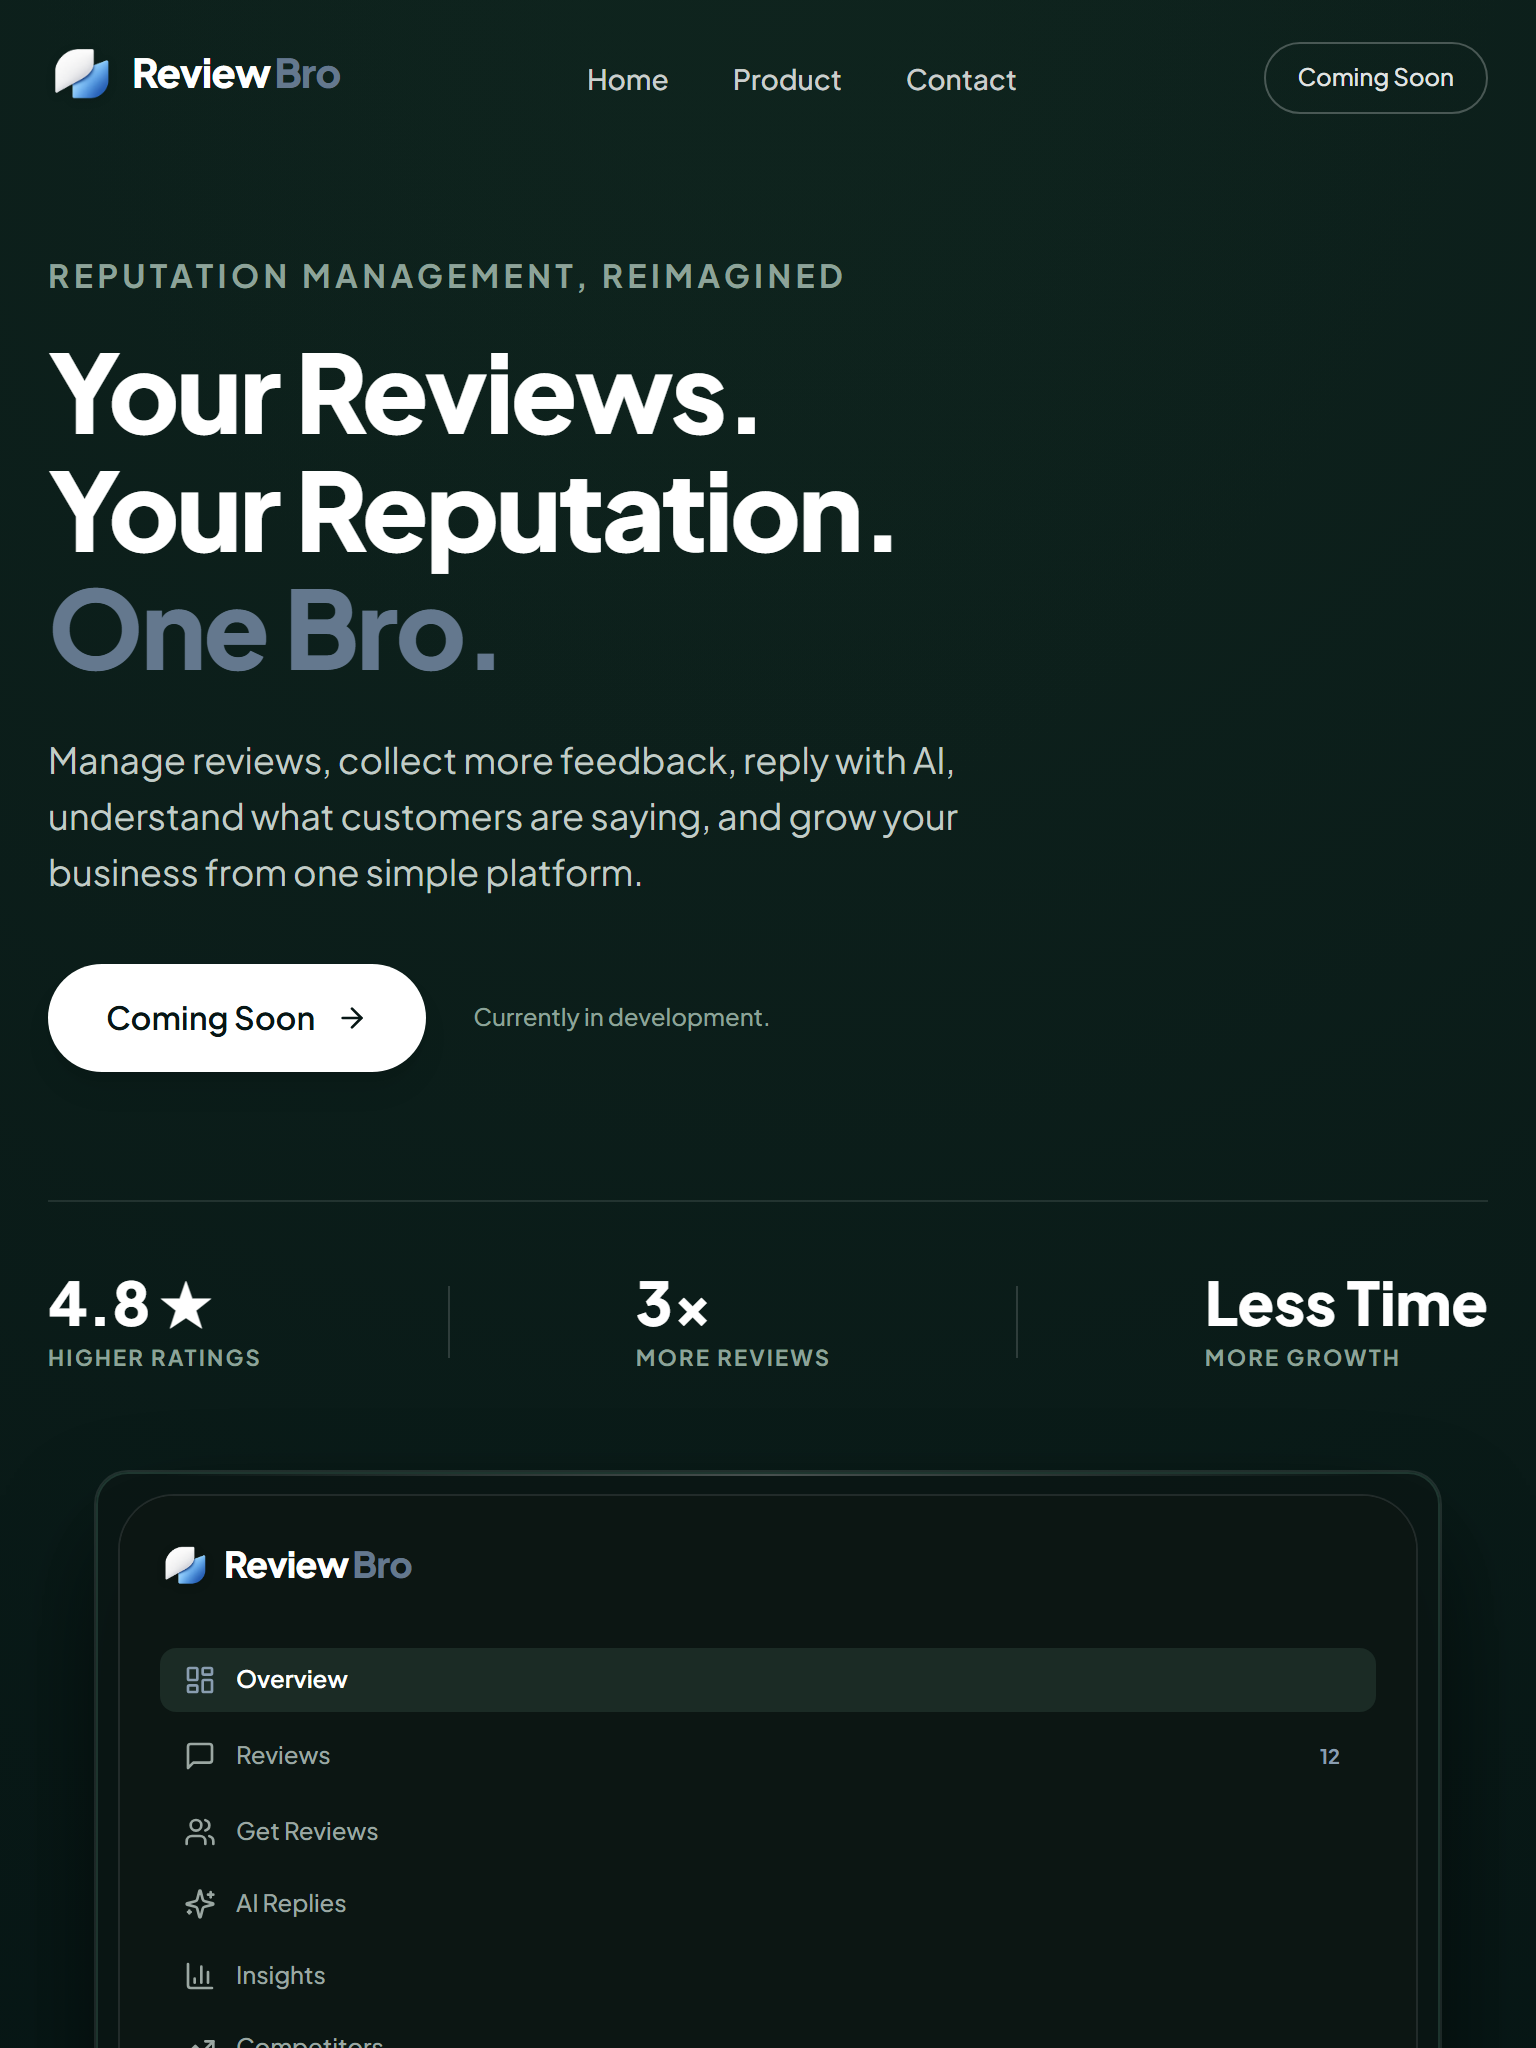
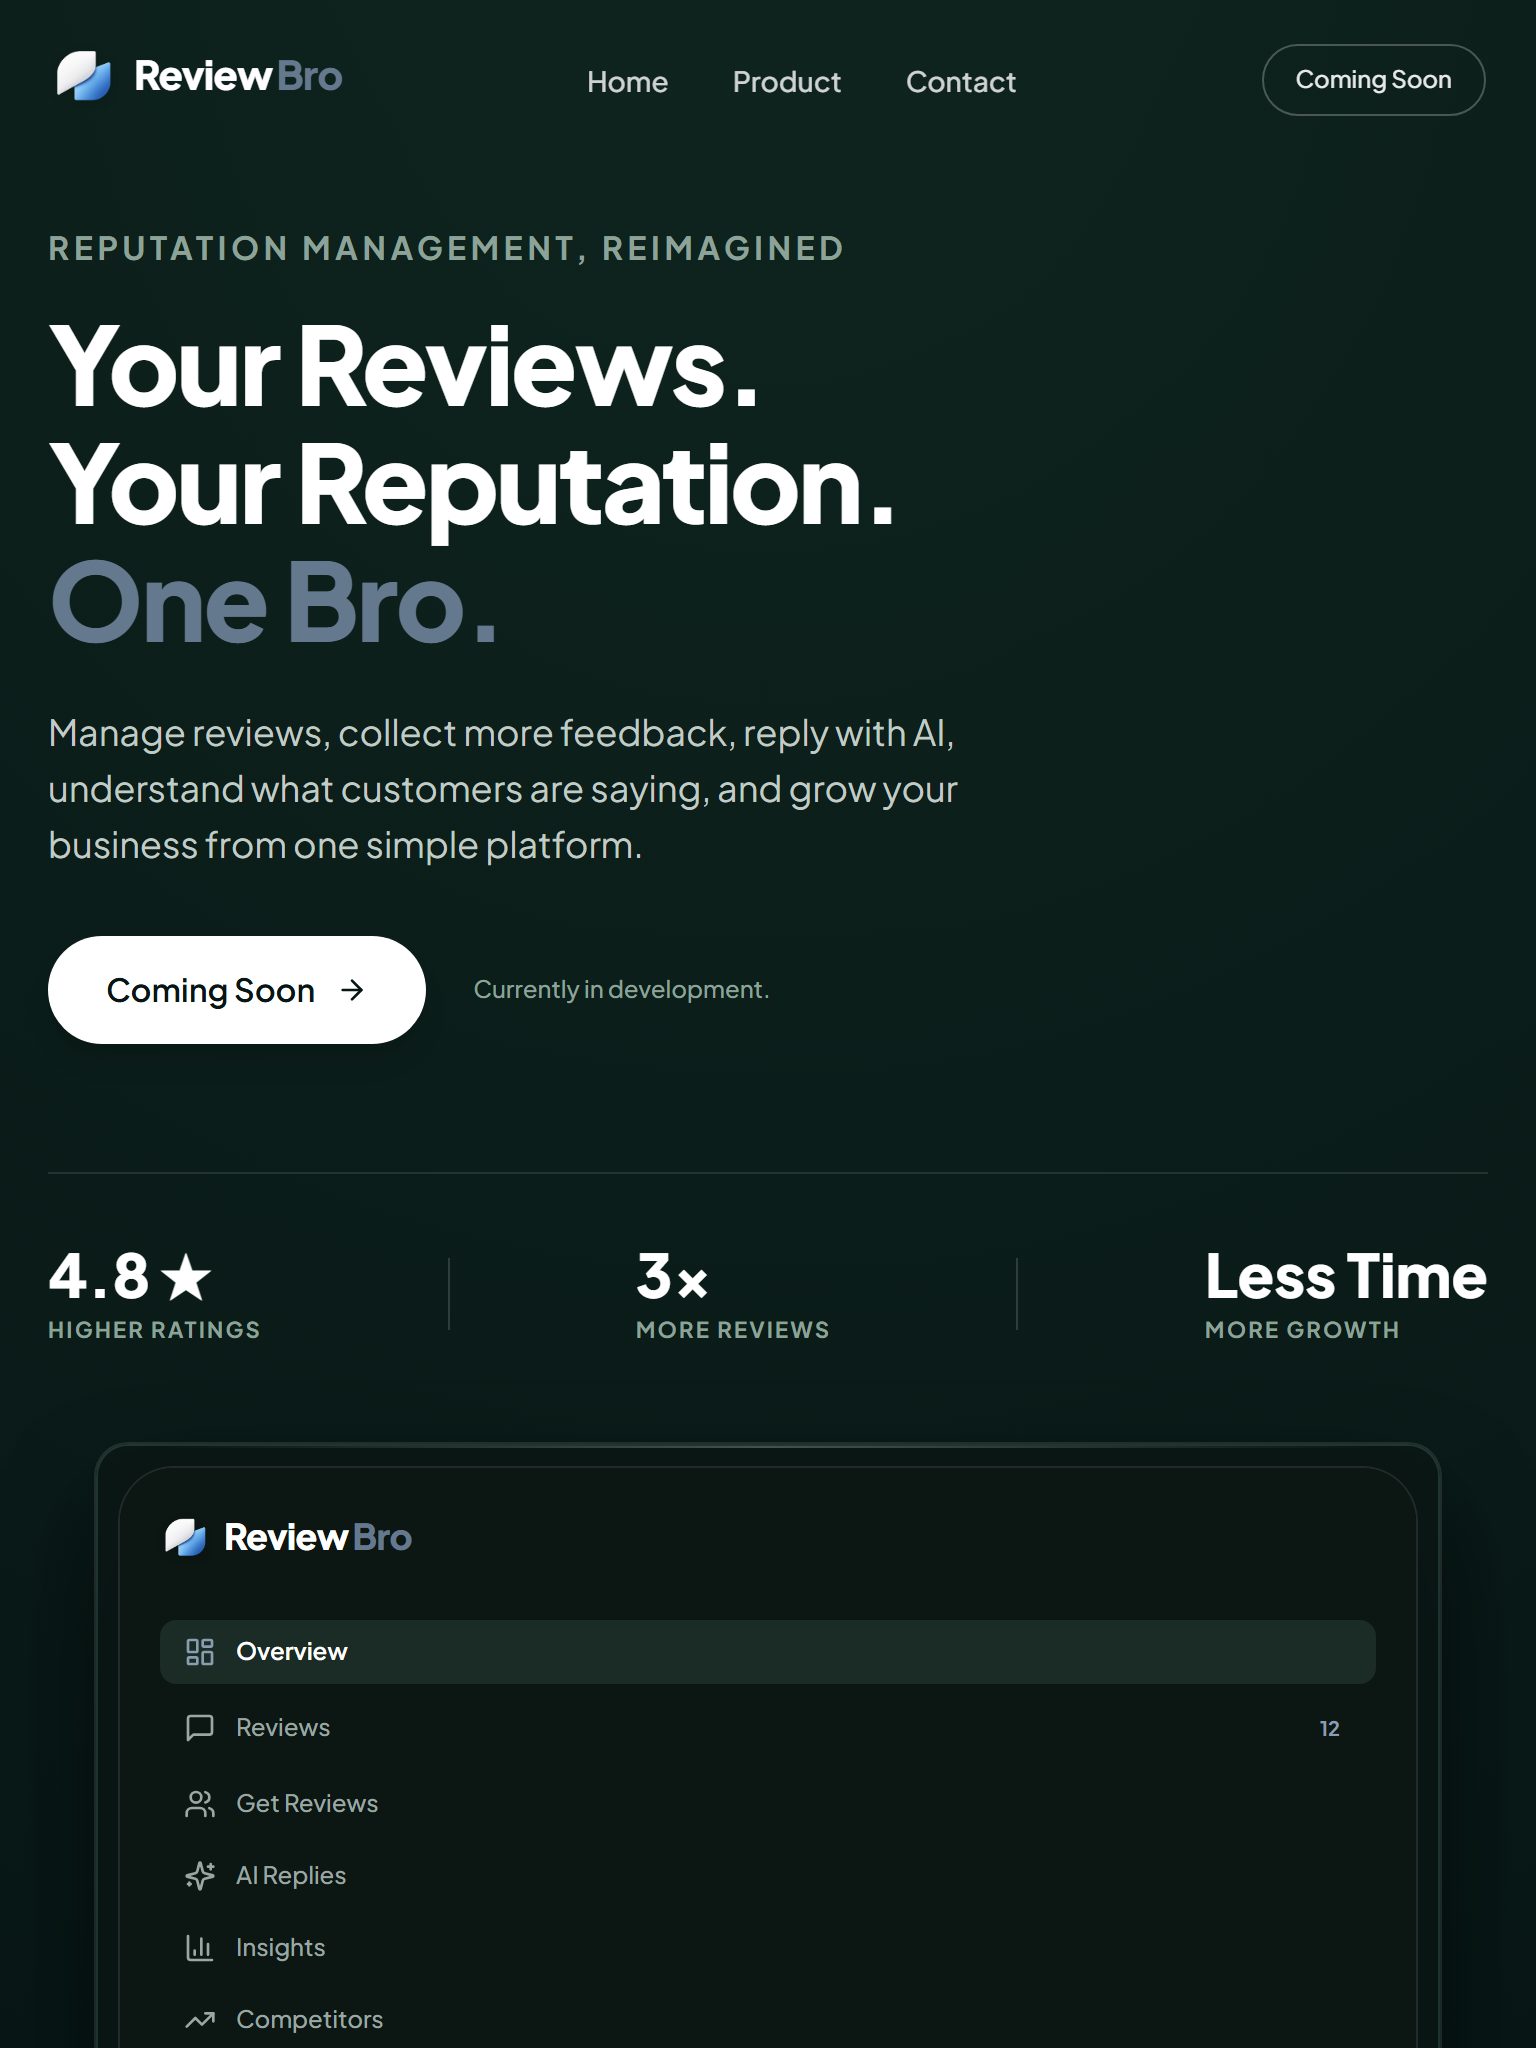
feat: implement Option 2 Adaptive Chameleon fixed floating header with smooth transformation animation

diff --git a/src/components/layout/Navbar.tsx b/src/components/layout/Navbar.tsx
@@ -5,15 +5,17 @@ import { Menu, X } from 'lucide-react'
 import { cn } from '@/lib/utils'
 
 export interface NavbarProps {
-  theme?: 'dark' | 'light'
+  theme?: 'dark' | 'light' | 'adaptive'
   className?: string
 }
 
 export const Navbar: React.FC<NavbarProps> = ({
-  theme = 'dark',
+  theme = 'adaptive',
   className,
 }) => {
   const [mobileMenuOpen, setMobileMenuOpen] = useState(false)
+  const [isScrolled, setIsScrolled] = useState(false)
+  const [isOverLightSection, setIsOverLightSection] = useState(false)
 
   // Close mobile drawer on Escape key press
   useEffect(() => {
@@ -26,13 +28,41 @@ export const Navbar: React.FC<NavbarProps> = ({
     return () => window.removeEventListener('keydown', handleKeyDown)
   }, [mobileMenuOpen])
 
+  // Track scroll position for capsule morphing and section-aware adaptive theme
+  useEffect(() => {
+    const checkScrollState = () => {
+      const scrollY = window.scrollY
+      setIsScrolled(scrollY > 20)
+
+      // Detect if floating navbar intersects light section (#product)
+      const productSection = document.getElementById('product')
+      if (productSection) {
+        const rect = productSection.getBoundingClientRect()
+        // Header floats ~14px from top with ~54px height, so ~68px trigger
+        setIsOverLightSection(rect.top <= 68)
+      }
+    }
+
+    checkScrollState()
+    window.addEventListener('scroll', checkScrollState, { passive: true })
+    return () => window.removeEventListener('scroll', checkScrollState)
+  }, [])
+
   const navLinks = [
     { label: 'Home', href: '#home' },
     { label: 'Product', href: '#product' },
     { label: 'Contact', href: '#contact' },
   ]
 
-  const isDark = theme === 'dark'
+  // Determine active theme
+  const effectiveTheme: 'dark' | 'light' =
+    theme === 'adaptive'
+      ? isOverLightSection
+        ? 'light'
+        : 'dark'
+      : theme
+
+  const isDark = effectiveTheme === 'dark'
 
   const handleScrollTo = (e: React.MouseEvent<HTMLAnchorElement>, href: string) => {
     e.preventDefault()
@@ -44,111 +74,142 @@ export const Navbar: React.FC<NavbarProps> = ({
   }
 
   return (
-    <header
-      className={cn(
-        'w-full py-5 px-4 sm:px-6 lg:px-8 transition-colors z-40 relative',
-        isDark ? 'bg-transparent text-white' : 'bg-white/80 backdrop-blur border-b border-neutral-200 text-neutral-900',
-        className
-      )}
-    >
-      <div className="max-w-7xl mx-auto flex items-center justify-between">
-        {/* Logo */}
-        <a
-          href="#home"
-          onClick={(e) => handleScrollTo(e, '#home')}
-          className="focus:outline-none focus-visible:ring-2 focus-visible:ring-brand-slate-light rounded-lg transition-transform hover:opacity-95"
-          aria-label="ReviewBro Home"
-        >
-          <Logo theme={isDark ? 'dark' : 'light'} size="md" />
-        </a>
-
-        {/* Desktop Nav Links */}
-        <nav className="hidden md:flex items-center gap-8 text-sm font-medium" aria-label="Main Navigation">
-          {navLinks.map((link) => (
-            <a
-              key={link.label}
-              href={link.href}
-              onClick={(e) => handleScrollTo(e, link.href)}
-              className={cn(
-                'relative py-1 transition-colors duration-150 rounded-md focus:outline-none focus-visible:ring-2 focus-visible:ring-brand-slate-light',
-                isDark
-                  ? 'text-white/80 hover:text-white after:absolute after:bottom-0 after:left-0 after:w-0 hover:after:w-full after:h-0.5 after:bg-brand-slate after:transition-all'
-                  : 'text-neutral-600 hover:text-neutral-950 after:absolute after:bottom-0 after:left-0 after:w-0 hover:after:w-full after:h-0.5 after:bg-neutral-900 after:transition-all'
-              )}
-            >
-              {link.label}
-            </a>
-          ))}
-        </nav>
-
-        {/* Right CTA Button */}
-        <div className="hidden md:flex items-center gap-3">
-          <a
-            href="#coming-soon"
-            onClick={(e) => handleScrollTo(e, '#coming-soon')}
-            className="inline-block"
-          >
-            <Button
-              variant={isDark ? 'outline' : 'dark-pill'}
-              size="sm"
-              className="text-xs px-4 py-1.5 h-9 rounded-full transition-all duration-200 hover:scale-[1.02] active:scale-[0.98]"
-            >
-              Coming Soon
-            </Button>
-          </a>
-        </div>
-
-        {/* Mobile Hamburger */}
-        <button
-          onClick={() => setMobileMenuOpen(!mobileMenuOpen)}
-          className={cn(
-            'md:hidden p-2 rounded-lg transition-colors focus:outline-none focus-visible:ring-2 focus-visible:ring-brand-slate-light',
-            isDark ? 'text-white hover:bg-white/10' : 'text-neutral-800 hover:bg-neutral-100'
-          )}
-          aria-label={mobileMenuOpen ? 'Close navigation menu' : 'Open navigation menu'}
-          aria-expanded={mobileMenuOpen}
-        >
-          {mobileMenuOpen ? <X className="w-5 h-5" /> : <Menu className="w-5 h-5" />}
-        </button>
-      </div>
-
-      {/* Mobile Drawer */}
-      {mobileMenuOpen && (
+    <>
+      <header
+        className={cn(
+          'fixed top-0 inset-x-0 z-50 pointer-events-none transition-all duration-300 ease-out',
+          className
+        )}
+      >
         <div
           className={cn(
-            'md:hidden mt-3 p-4 rounded-xl border animate-slide-up space-y-3',
-            isDark
-              ? 'bg-[#0b1715] border-white/10 text-white shadow-2xl'
-              : 'bg-white border-neutral-200 text-neutral-900 shadow-xl'
+            'pointer-events-auto transition-all duration-300 ease-[cubic-bezier(0.16,1,0.3,1)] flex items-center justify-between',
+            isScrolled
+              ? 'mt-3 sm:mt-4 mx-auto w-[92%] sm:w-[88%] lg:w-[80%] max-w-4xl py-2.5 px-5 sm:px-6 rounded-full'
+              : 'mt-0 mx-auto w-full max-w-7xl py-5 px-4 sm:px-6 lg:px-8 rounded-none',
+            // Visual capsule styles & adaptive theme
+            !isScrolled
+              ? 'bg-transparent border border-transparent shadow-none text-white'
+              : isDark
+                ? 'bg-[#071615]/90 backdrop-blur-xl border border-white/12 shadow-2xl shadow-black/50 text-white'
+                : 'bg-white/92 backdrop-blur-xl border border-neutral-200/90 shadow-xl shadow-neutral-900/10 text-neutral-900'
           )}
         >
-          {navLinks.map((link) => (
-            <a
-              key={link.label}
-              href={link.href}
-              onClick={(e) => handleScrollTo(e, link.href)}
-              className="block py-2 text-sm font-medium hover:text-brand-slate transition-colors rounded px-2 hover:bg-white/5"
-            >
-              {link.label}
-            </a>
-          ))}
-          <div className="pt-2 border-t border-white/10">
+          {/* Logo */}
+          <a
+            href="#home"
+            onClick={(e) => handleScrollTo(e, '#home')}
+            className="focus:outline-none focus-visible:ring-2 focus-visible:ring-brand-slate-light rounded-lg transition-transform hover:opacity-95"
+            aria-label="ReviewBro Home"
+          >
+            <Logo theme={isDark ? 'dark' : 'light'} size="md" />
+          </a>
+
+          {/* Desktop Nav Links */}
+          <nav className="hidden md:flex items-center gap-8 text-sm font-medium" aria-label="Main Navigation">
+            {navLinks.map((link) => (
+              <a
+                key={link.label}
+                href={link.href}
+                onClick={(e) => handleScrollTo(e, link.href)}
+                className={cn(
+                  'relative py-1 transition-colors duration-150 rounded-md focus:outline-none focus-visible:ring-2 focus-visible:ring-brand-slate-light',
+                  isDark
+                    ? 'text-white/80 hover:text-white after:absolute after:bottom-0 after:left-0 after:w-0 hover:after:w-full after:h-0.5 after:bg-brand-slate after:transition-all'
+                    : 'text-neutral-600 hover:text-neutral-950 after:absolute after:bottom-0 after:left-0 after:w-0 hover:after:w-full after:h-0.5 after:bg-neutral-900 after:transition-all'
+                )}
+              >
+                {link.label}
+              </a>
+            ))}
+          </nav>
+
+          {/* Right CTA Button */}
+          <div className="hidden md:flex items-center gap-3">
             <a
               href="#coming-soon"
               onClick={(e) => handleScrollTo(e, '#coming-soon')}
-              className="block w-full"
+              className="inline-block"
             >
               <Button
-                variant={isDark ? 'primary-pill' : 'dark-pill'}
+                variant={isDark ? (isScrolled ? 'primary-pill' : 'outline') : 'dark-pill'}
                 size="sm"
-                className="w-full justify-center text-xs"
+                className="text-xs px-4 py-1.5 h-9 rounded-full transition-all duration-200 hover:scale-[1.02] active:scale-[0.98]"
               >
                 Coming Soon
               </Button>
             </a>
           </div>
+
+          {/* Mobile Hamburger */}
+          <button
+            onClick={() => setMobileMenuOpen(!mobileMenuOpen)}
+            className={cn(
+              'md:hidden p-2 rounded-lg transition-colors focus:outline-none focus-visible:ring-2 focus-visible:ring-brand-slate-light',
+              isDark ? 'text-white hover:bg-white/10' : 'text-neutral-800 hover:bg-neutral-100'
+            )}
+            aria-label={mobileMenuOpen ? 'Close navigation menu' : 'Open navigation menu'}
+            aria-expanded={mobileMenuOpen}
+          >
+            {mobileMenuOpen ? <X className="w-5 h-5" /> : <Menu className="w-5 h-5" />}
+          </button>
         </div>
+
+        {/* Mobile Drawer */}
+        {mobileMenuOpen && (
+          <div
+            className={cn(
+              'md:hidden pointer-events-auto mt-2 p-4 rounded-2xl border animate-slide-up space-y-3',
+              isScrolled
+                ? 'w-[92%] sm:w-[88%] mx-auto'
+                : 'w-[calc(100%-2rem)] max-w-7xl mx-auto',
+              isDark
+                ? 'bg-[#071615]/95 backdrop-blur-2xl border-white/12 text-white shadow-2xl'
+                : 'bg-white/95 backdrop-blur-2xl border-neutral-200 text-neutral-900 shadow-xl'
+            )}
+          >
+            {navLinks.map((link) => (
+              <a
+                key={link.label}
+                href={link.href}
+                onClick={(e) => handleScrollTo(e, link.href)}
+                className={cn(
+                  'block py-2 text-sm font-medium transition-colors rounded px-2',
+                  isDark
+                    ? 'hover:text-brand-slate-light hover:bg-white/5'
+                    : 'hover:text-neutral-950 hover:bg-neutral-100'
+                )}
+              >
+                {link.label}
+              </a>
+            ))}
+            <div className={cn('pt-2 border-t', isDark ? 'border-white/10' : 'border-neutral-200')}>
+              <a
+                href="#coming-soon"
+                onClick={(e) => handleScrollTo(e, '#coming-soon')}
+                className="block w-full"
+              >
+                <Button
+                  variant={isDark ? 'primary-pill' : 'dark-pill'}
+                  size="sm"
+                  className="w-full justify-center text-xs"
+                >
+                  Coming Soon
+                </Button>
+              </a>
+            </div>
+          </div>
+        )}
+      </header>
+
+      {/* Backdrop for mobile drawer */}
+      {mobileMenuOpen && (
+        <div
+          className="md:hidden fixed inset-0 z-40 bg-black/40 backdrop-blur-xs transition-opacity"
+          onClick={() => setMobileMenuOpen(false)}
+          aria-hidden="true"
+        />
       )}
-    </header>
+    </>
   )
 }

diff --git a/src/components/landing/Hero.tsx b/src/components/landing/Hero.tsx
@@ -2,7 +2,6 @@ import React from 'react'
 import { Button } from '@/components/ui/Button'
 import { Eyebrow } from '@/components/ui/Eyebrow'
 import { Container } from '@/components/layout/Container'
-import { Navbar } from '@/components/layout/Navbar'
 import { DashboardShell } from '@/components/product/DashboardShell'
 
 export interface HeroProps {
@@ -26,10 +25,7 @@ export const Hero: React.FC<HeroProps> = ({ className }) => {
       {/* Subtle radial ambient sheen */}
       <div className="absolute inset-0 pointer-events-none bg-[radial-gradient(ellipse_70%_50%_at_50%_-15%,rgba(15,36,30,0.9)_0%,transparent_75%)]" />
 
-      {/* Header Navigation */}
-      <Navbar theme="dark" />
-
-      <Container size="xl" className="relative z-10 pt-8 sm:pt-12 lg:pt-16">
+      <Container size="xl" className="relative z-10 pt-24 sm:pt-28 lg:pt-32">
         <div className="grid grid-cols-1 lg:grid-cols-12 gap-12 lg:gap-8 items-center">
           {/* Left Column: Headline, Copy & CTAs */}
           <div className="lg:col-span-5 flex flex-col items-start text-left">

diff --git a/src/pages/LandingPage.tsx b/src/pages/LandingPage.tsx
@@ -1,4 +1,5 @@
 import React from 'react'
+import { Navbar } from '@/components/layout/Navbar'
 import { Hero } from '@/components/landing/Hero'
 import { PlatformSection } from '@/components/landing/PlatformSection'
 import { WhyReviewBro } from '@/components/landing/WhyReviewBro'
@@ -7,6 +8,9 @@ import { Footer } from '@/components/landing/Footer'
 export const LandingPage: React.FC = () => {
   return (
     <div className="min-h-screen bg-[#071615] text-white flex flex-col selection:bg-brand-slate selection:text-white">
+      {/* Fixed Adaptive Transforming Capsule Navbar */}
+      <Navbar theme="adaptive" />
+
       {/* Semantic Main Content Container */}
       <main id="main-content" className="flex-1 flex flex-col">
         {/* SECTION 1: HERO (Dark Deep Green) */}
